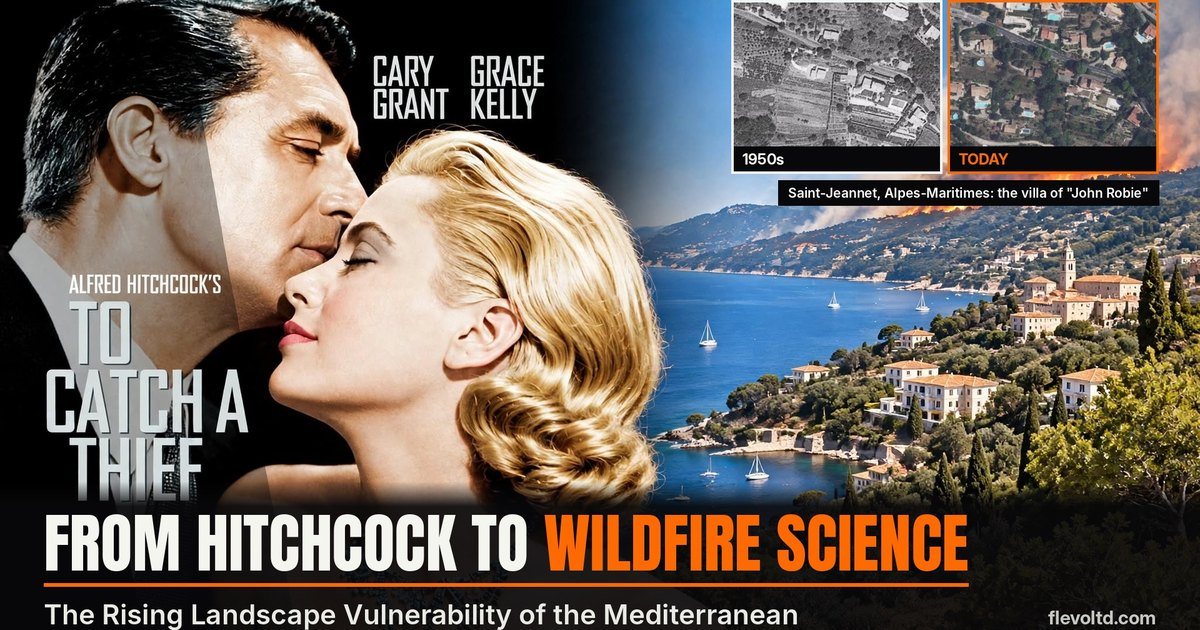
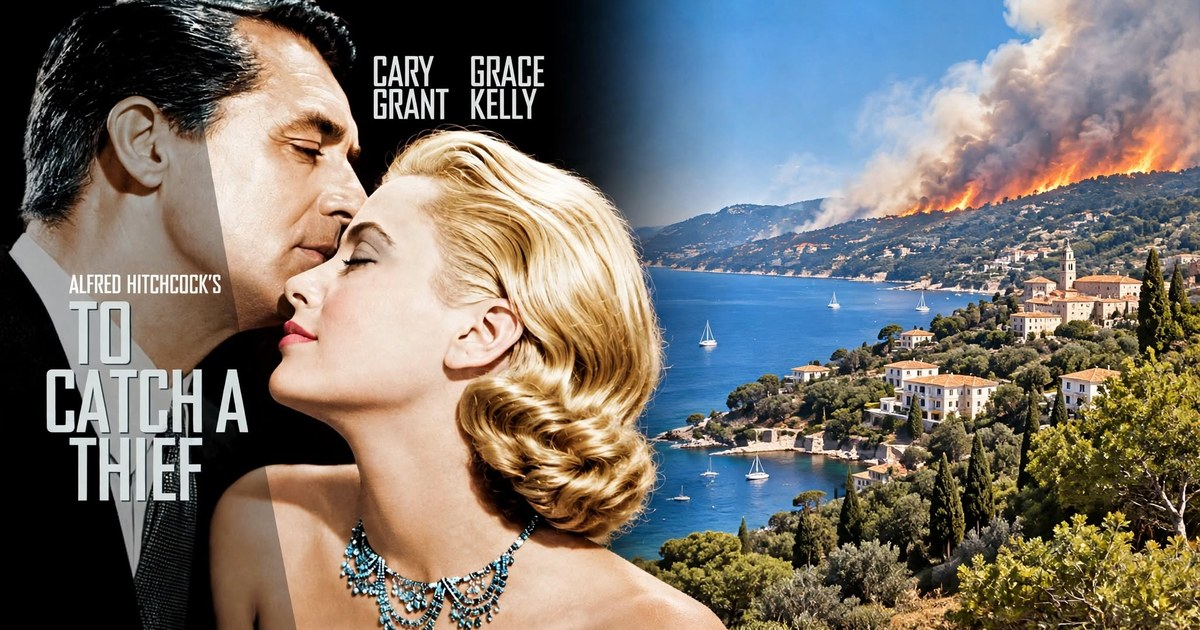
Hitchcock article: use original cover image without overlays
Claude-Session: https://claude.ai/code/session_01AUTAA54vr484pf5KJRPQ4C

Changed region(s): [[0.0308, 0.754, 1.0, 1.0], [0.5858, 0.0, 0.9867, 0.3317], [0.1542, 0.0, 0.185, 0.0603]]

diff --git a/insights/index.html b/insights/index.html
@@ -37,7 +37,7 @@
   <p class="lead">Posts and articles from LinkedIn. Posts that belong to both fields appear in both columns.</p>
   <div class="filt" role="group" aria-label="Filter"><button type="button" data-f="" aria-pressed="true">Both fields</button><button type="button" data-f="s" aria-pressed="false">Safety</button><button type="button" data-f="n" aria-pressed="false">Natural hazards</button></div>
 </div></section>
-<section class="sec" style="padding-top:40px"><div class="wrap"><div class="feed" id="feed"><div class="fcol s"><div class="colh"><h3>Safety</h3></div><a class="post s" href="https://www.linkedin.com/feed/update/urn:li:activity:7425280243684462593/" target="_blank" rel="noopener"><div class="m"><span class="t">Safety</span><span>Feb 2026 · LinkedIn</span><span class="lang">EL</span></div><h4>School buses and fire risk</h4><p>After two city buses burned in Thessaloniki: the specific bus type used almost exclusively for school transport, and why the risk must be addressed now.</p></a><a class="post s" href="https://www.linkedin.com/feed/update/urn:li:activity:7303713686462816256/" target="_blank" rel="noopener"><div class="m"><span class="t">Safety</span><span>Mar 2025 · LinkedIn</span></div><h4>Who should lead an accident investigation?</h4><p>A poll for safety professionals: should investigation leaders be experts in the investigation process, the industry, or the law? 89 % chose the process.</p></a><a class="post b wimg" href="https://www.linkedin.com/feed/update/urn:li:activity:7272912386288721921/" target="_blank" rel="noopener"><div class="m"><span class="t">Both fields</span><span>Dec 2024 · LinkedIn</span></div><h4>Cyprus ESG Forum 2024</h4><p>Expanding knowledge on ESG implementation and the tangible needs of potential customers.</p><img src="/assets/li/li-31.webp" alt="Cyprus ESG Forum 2024" loading="lazy"></a><a class="post b wimg" href="https://www.linkedin.com/feed/update/urn:li:ugcPost:7239157136377696257/" target="_blank" rel="noopener"><div class="m"><span class="t">Both fields</span><span>Sep 2024 · LinkedIn</span></div><h4>How it started: Mati, 23 July 2018</h4><p>Wildfire analysis began in a home yard in Cyprus, applying operational safety incident investigation experience from VTTI and DP World to the Mati disaster.</p><img src="/assets/li/li-32.webp" alt="How it started: Mati, 23 July 2018" loading="lazy"></a><a class="post s" href="https://www.linkedin.com/in/nkamakiotis/recent-activity/all/" target="_blank" rel="noopener"><div class="m"><span class="t">Safety</span><span>2023 · LinkedIn</span><span class="lang">EL</span></div><h4>Safety management means setting priorities</h4><p>On Radio Politis about the school bus fires in Cyprus and the international history of the bus type involved.</p></a><a class="post b" href="https://www.linkedin.com/in/nkamakiotis/recent-activity/all/" target="_blank" rel="noopener"><div class="m"><span class="t">Both fields</span><span>2023 · LinkedIn</span></div><h4>Wildfires are accidents, not acts of nature</h4><p>Improvement only comes from honest, objective analysis of what happened. Wildfire incidents should be analysed like industrial accidents.</p></a><a class="post s" href="https://www.linkedin.com/in/nkamakiotis/recent-activity/all/" target="_blank" rel="noopener"><div class="m"><span class="t">Safety</span><span>2023 · LinkedIn</span><span class="lang">EL</span></div><h4>Safety culture: the eternal excuse</h4><p>Opinion article in Politis: stop blaming poor safety culture and change how employers approach safety management.</p></a><a class="post b wimg" href="https://www.linkedin.com/feed/update/urn:li:share:7038500696849010688/" target="_blank" rel="noopener"><div class="m"><span class="t">Both fields</span><span>Mar 2023 · LinkedIn</span></div><h4>Living Lab on climate adaptation</h4><p>Contributing field experience to the second Living Lab workshop on climate adaptation.</p><img src="/assets/li/li-60.webp" alt="Living Lab on climate adaptation" loading="lazy"></a><a class="post s wimg" href="https://www.linkedin.com/in/nkamakiotis/recent-activity/all/" target="_blank" rel="noopener"><div class="m"><span class="t">Safety</span><span>2022 · LinkedIn</span></div><h4>Industrial firefighting training at H2K</h4><p>Back at H2K in the Netherlands for industrial firefighting and incident command training.</p><img src="/assets/li/li-64.webp" alt="Industrial firefighting training at H2K" loading="lazy"></a><a class="post s wimg" href="https://www.linkedin.com/in/nkamakiotis/recent-activity/all/" target="_blank" rel="noopener"><div class="m"><span class="t">Safety</span><span>2019 · LinkedIn</span></div><h4>Sharing safety culture</h4><p>Presenting on safety culture at DP World Limassol.</p><img src="/assets/li/li-77.webp" alt="Sharing safety culture" loading="lazy"></a><a class="post s" href="https://www.linkedin.com/in/nkamakiotis/recent-activity/all/" target="_blank" rel="noopener"><div class="m"><span class="t">Safety</span><span>2019 · LinkedIn</span></div><h4>Culture changes through conversations</h4><p>A safety meeting that turned into a discussion on organisational and efficiency improvements.</p></a><a class="post b wimg" href="https://www.linkedin.com/in/nkamakiotis/recent-activity/all/" target="_blank" rel="noopener"><div class="m"><span class="t">Both fields</span><span>2018 · LinkedIn</span></div><h4>Nicosia Risk Forum 2018</h4><p>Sharing concerns and ideas on crisis management at the first Risk Forum of CERIDES / European University Cyprus.</p><img src="/assets/li/li-98.webp" alt="Nicosia Risk Forum 2018" loading="lazy"></a><a class="post s wimg" href="https://www.linkedin.com/in/nkamakiotis/recent-activity/all/" target="_blank" rel="noopener"><div class="m"><span class="t">Safety</span><span>2016 · LinkedIn</span></div><h4>An emergency that did not escalate</h4><p>Industrial firefighting tools introduced at state level proved themselves when colleagues controlled an emergency that could have become a catastrophe.</p><img src="/assets/li/li-109.webp" alt="An emergency that did not escalate" loading="lazy"></a></div><div class="fcol n"><div class="colh"><h3>Natural disasters</h3></div><a class="post n wimg" href="/insights/hitchcock-to-wildfire-science/"><div class="m"><span class="t">Natural hazards</span><span>Nov 2026 · Article</span></div><h4>From Hitchcock to Wildfire Science</h4><p>The Riviera of <em>To Catch a Thief</em> (1955) and today: more natural vegetation, abandoned cultivation and scattered houses, three changes that raise wildfire risk together.</p><img src="/insights/hitchcock-to-wildfire-science/cover.webp" alt="From Hitchcock to Wildfire Science" loading="lazy"></a><a class="post n" href="https://www.linkedin.com/feed/update/urn:li:activity:7491078239373737984/" target="_blank" rel="noopener"><div class="m"><span class="t">Natural hazards</span><span>Aug 2026 · LinkedIn</span></div><h4>Can insurance drive wildfire preparedness?</h4><p>After the pledge to fully compensate Porto Germeno homeowners: an open question to the Greek insurance association on rewarding property-level mitigation, not only paying for losses.</p></a><a class="post n" href="https://www.linkedin.com/feed/update/urn:li:activity:7488480293415415808/" target="_blank" rel="noopener"><div class="m"><span class="t">Natural hazards</span><span>Jul 2026 · LinkedIn</span></div><h4>We learned to fight fire, not to stop it growing</h4><p>Sharing Theodore Giannaros on CNN International: more aircraft and crews, but prevention, fuel management and WUI hardening still lag behind.</p></a><a class="post n" href="https://www.linkedin.com/feed/update/urn:li:activity:7467882643322392577/" target="_blank" rel="noopener"><div class="m"><span class="t">Natural hazards</span><span>Jun 2026 · LinkedIn</span></div><h4>A collaboration born at a NERO coffee break</h4><p>Ivana Čavlina Tomašević (DHMZ) on how XFire 2025 led to the joint Pisak reconstruction and WRF-SFIRE on Croatia&#x27;s national HPC infrastructure.</p></a><a class="post n wimg" href="https://www.linkedin.com/feed/update/urn:li:activity:7455584693841911808/" target="_blank" rel="noopener"><div class="m"><span class="t">Natural hazards</span><span>Apr 2026 · LinkedIn</span></div><h4>Remote sensing in forensic wildfire reconstruction</h4><p>Short version of the RSCy 2026 presentation: how satellite information feeds the high-fidelity reconstruction method.</p><img src="/assets/li/li-6.webp" alt="Remote sensing in forensic wildfire reconstruction" loading="lazy"></a><a class="post n wimg" href="https://www.linkedin.com/feed/update/urn:li:activity:7454505931498778626/" target="_blank" rel="noopener"><div class="m"><span class="t">Natural hazards</span><span>Apr 2026 · LinkedIn</span></div><h4>Presenting at RSCy 2026</h4><p>12th International Conference on Remote Sensing and Geoinformation of Environment, Paphos: integrating remote sensing into forensic reconstruction of WUI wildfires.</p><img src="/assets/li/li-7.webp" alt="Presenting at RSCy 2026" loading="lazy"></a><a class="post n wimg" href="https://www.linkedin.com/feed/update/urn:li:activity:7453367062271365120/" target="_blank" rel="noopener"><div class="m"><span class="t">Natural hazards</span><span>Apr 2026 · LinkedIn</span></div><h4>The method travels to Croatia</h4><p>Knowledge transfer within the NERO Network: the reconstruction method, born from industrial incident analysis, applied with DHMZ to the Pisak fire.</p><img src="/assets/li/li-8.webp" alt="The method travels to Croatia" loading="lazy"></a><a class="post n" href="https://www.linkedin.com/feed/update/urn:li:activity:7409218160039579648/" target="_blank" rel="noopener"><div class="m"><span class="t">Natural hazards</span><span>Dec 2025 · LinkedIn</span></div><h4>HackTech Hackathon 2025</h4><p>Key takeaways from chrono-spatial reconstruction of WUI wildfires, shared in a short interview at HackTech 2025.</p></a><a class="post n wimg" href="https://www.linkedin.com/feed/update/urn:li:activity:7380862841366450176/" target="_blank" rel="noopener"><div class="m"><span class="t">Natural hazards</span><span>Oct 2025 · LinkedIn</span></div><h4>Writing wildfire history with purpose</h4><p>Presenting the Varnavas reconstruction at the NERO XFire 2025 workshop, with a SWOT discussion on the researcher–practitioner interface.</p><img src="/assets/li/li-15.webp" alt="Writing wildfire history with purpose" loading="lazy"></a><a class="post n wimg" href="https://www.linkedin.com/feed/update/urn:li:activity:7380875639504920576/" target="_blank" rel="noopener"><div class="m"><span class="t">Natural hazards</span><span>Oct 2025 · LinkedIn</span></div><h4>Out-of-the-box CSR: the Varnavas reconstruction</h4><p>ALTEX S.A. supported the chrono-spatial reconstruction of the Varnavas fire, a project on proactive threat management and communication.</p><img src="/assets/li/li-14.webp" alt="Out-of-the-box CSR: the Varnavas reconstruction" loading="lazy"></a><a class="post n wimg" href="https://www.linkedin.com/feed/update/urn:li:activity:7370335320971649024/" target="_blank" rel="noopener"><div class="m"><span class="t">Natural hazards</span><span>Sep 2025 · LinkedIn</span></div><h4>XFire 2025: the Varnavas reconstruction</h4><p>Evolution of extreme WUI wildfire incidents: the forensic chrono-spatial method, including impact on cultivated land by crop type.</p><img src="/assets/li/li-16.webp" alt="XFire 2025: the Varnavas reconstruction" loading="lazy"></a><a class="post n" href="https://www.linkedin.com/feed/update/urn:li:activity:7355180710128672768/" target="_blank" rel="noopener"><div class="m"><span class="t">Natural hazards</span><span>Jul 2025 · LinkedIn</span></div><h4>Interview on the Limassol wildfire</h4><p>Interview with the Cypriot news group Politis on the large Limassol district fire.</p></a><a class="post n" href="https://www.linkedin.com/feed/update/urn:li:activity:7353931174420877313/" target="_blank" rel="noopener"><div class="m"><span class="t">Natural hazards</span><span>Jul 2025 · LinkedIn</span></div><h4>Limassol fire: no decrease at night</h4><p>Fire intensity in the Limassol district did not drop overnight.</p></a><a class="post n" href="https://www.linkedin.com/feed/update/urn:li:activity:7343487885599289345/" target="_blank" rel="noopener"><div class="m"><span class="t">Natural hazards</span><span>Jun 2025 · LinkedIn</span></div><h4>Chios 2025: three days in 33 seconds</h4><p>Under adverse winds, fronts in abandoned countryside cannot be controlled; when the wind dropped on day three, the fire subsided.</p></a><a class="post n" href="https://www.linkedin.com/feed/update/urn:li:activity:7287891754253533186/" target="_blank" rel="noopener"><div class="m"><span class="t">Natural hazards</span><span>Jan 2025 · LinkedIn</span></div><h4>Natural disasters and media inflation</h4><p>When every event is &quot;unprecedented&quot;, the public stops pressing for the improvements we can control: planning, building codes, fuel management and preparedness.</p></a><a class="post n wimg" href="https://www.linkedin.com/feed/update/urn:li:activity:7284856929586143233/" target="_blank" rel="noopener"><div class="m"><span class="t">Natural hazards</span><span>Jan 2025 · LinkedIn</span></div><h4>Boxing out the Palisades fire</h4><p>Retardant lines on the north-east flank: impressive, but not designed for the wind-driven main front. Planning around the Mediterranean must account for this.</p><img src="/assets/li/li-29.webp" alt="Boxing out the Palisades fire" loading="lazy"></a><a class="post b wimg" href="https://www.linkedin.com/feed/update/urn:li:activity:7272912386288721921/" target="_blank" rel="noopener"><div class="m"><span class="t">Both fields</span><span>Dec 2024 · LinkedIn</span></div><h4>Cyprus ESG Forum 2024</h4><p>Expanding knowledge on ESG implementation and the tangible needs of potential customers.</p><img src="/assets/li/li-31.webp" alt="Cyprus ESG Forum 2024" loading="lazy"></a><a class="post b wimg" href="https://www.linkedin.com/feed/update/urn:li:ugcPost:7239157136377696257/" target="_blank" rel="noopener"><div class="m"><span class="t">Both fields</span><span>Sep 2024 · LinkedIn</span></div><h4>How it started: Mati, 23 July 2018</h4><p>Wildfire analysis began in a home yard in Cyprus, applying operational safety incident investigation experience from VTTI and DP World to the Mati disaster.</p><img src="/assets/li/li-32.webp" alt="How it started: Mati, 23 July 2018" loading="lazy"></a><a class="post n wimg" href="https://www.linkedin.com/in/nkamakiotis/recent-activity/all/" target="_blank" rel="noopener"><div class="m"><span class="t">Natural hazards</span><span>2023 · LinkedIn</span></div><h4>Mati and Lahaina: the same access points</h4><p>Lessons not learned, and not possible to share: the case for uniform analysis of public-safety wildfire incidents across EU Member States.</p><img src="/assets/li/li-49.webp" alt="Mati and Lahaina: the same access points" loading="lazy"></a><a class="post b" href="https://www.linkedin.com/in/nkamakiotis/recent-activity/all/" target="_blank" rel="noopener"><div class="m"><span class="t">Both fields</span><span>2023 · LinkedIn</span></div><h4>Wildfires are accidents, not acts of nature</h4><p>Improvement only comes from honest, objective analysis of what happened. Wildfire incidents should be analysed like industrial accidents.</p></a><a class="post b wimg" href="https://www.linkedin.com/feed/update/urn:li:share:7038500696849010688/" target="_blank" rel="noopener"><div class="m"><span class="t">Both fields</span><span>Mar 2023 · LinkedIn</span></div><h4>Living Lab on climate adaptation</h4><p>Contributing field experience to the second Living Lab workshop on climate adaptation.</p><img src="/assets/li/li-60.webp" alt="Living Lab on climate adaptation" loading="lazy"></a><a class="post n" href="https://www.linkedin.com/feed/update/urn:li:ugcPost:6956598848613924864/" target="_blank" rel="noopener"><div class="m"><span class="t">Natural hazards</span><span>Jul 2022 · LinkedIn</span><span class="lang">EL</span></div><h4>The one video from the Neos Voutzas ravine</h4><p>The only footage of the northern front leaving the ravine above Neos Voutzas, the point where the rate of spread surged.</p></a><a class="post n wimg" href="https://www.linkedin.com/in/nkamakiotis/recent-activity/all/" target="_blank" rel="noopener"><div class="m"><span class="t">Natural hazards</span><span>2022 · LinkedIn</span></div><h4>FIRE-IN: Arakapas analysis for KEMEA</h4><p>After presenting Mati at ENSOSP in 2019, presenting the Arakapas fire, the deadliest in Cyprus, to the FIRE-IN H2020 experts on behalf of KEMEA.</p><img src="/assets/li/li-66.webp" alt="FIRE-IN: Arakapas analysis for KEMEA" loading="lazy"></a><a class="post n" href="https://www.linkedin.com/feed/update/urn:li:share:6931639317136039936/" target="_blank" rel="noopener"><div class="m"><span class="t">Natural hazards</span><span>May 2022 · LinkedIn</span><span class="lang">EL</span></div><h4>A wildfire guide Cyprus can use today</h4><p>Apart from the fire service number, the Greek wildfire self-protection leaflet applies directly to Cyprus.</p></a><a class="post n" href="https://www.linkedin.com/in/nkamakiotis/recent-activity/all/" target="_blank" rel="noopener"><div class="m"><span class="t">Natural hazards</span><span>2019 · LinkedIn</span></div><h4>Mati, one year after</h4><p>A short video comment on the anniversary of the national catastrophe.</p></a><a class="post n wimg" href="https://www.linkedin.com/in/nkamakiotis/recent-activity/all/" target="_blank" rel="noopener"><div class="m"><span class="t">Natural hazards</span><span>2019 · LinkedIn</span></div><h4>Management of change, applied to climate</h4><p>After record rainfall in Cyprus, was the change managed? An industrial management process applied to a natural one.</p><img src="/assets/li/li-86.webp" alt="Management of change, applied to climate" loading="lazy"></a><a class="post n wimg" href="https://www.linkedin.com/in/nkamakiotis/recent-activity/all/" target="_blank" rel="noopener"><div class="m"><span class="t">Natural hazards</span><span>2019 · LinkedIn</span></div><h4>Associate expert at FIRE-IN</h4><p>Invited to the EU-funded FIRE-IN workshop on vegetation fire crisis mitigation, following the web-based study of the Mati disaster.</p><img src="/assets/li/li-93.webp" alt="Associate expert at FIRE-IN" loading="lazy"></a><a class="post n" href="https://www.linkedin.com/in/nkamakiotis/recent-activity/all/" target="_blank" rel="noopener"><div class="m"><span class="t">Natural hazards</span><span>2018 · LinkedIn</span></div><h4>Lethal rendez-vous</h4><p>Annex to the Mati study: following the last steps of a family lost in the fire.</p></a><a class="post n" href="https://www.linkedin.com/in/nkamakiotis/recent-activity/all/" target="_blank" rel="noopener"><div class="m"><span class="t">Natural hazards</span><span>2018 · LinkedIn</span></div><h4>East Attica disaster: safety management principles</h4><p>Updated video of the web-based investigation study of the July 2018 East Attica fires.</p></a><a class="post n" href="https://www.linkedin.com/in/nkamakiotis/recent-activity/all/" target="_blank" rel="noopener"><div class="m"><span class="t">Natural hazards</span><span>2018 · LinkedIn</span></div><h4>The Mati study goes public</h4><p>The video version of a safety management oriented, web-based investigation of the East Attica wildfire disaster.</p></a><a class="post b wimg" href="https://www.linkedin.com/in/nkamakiotis/recent-activity/all/" target="_blank" rel="noopener"><div class="m"><span class="t">Both fields</span><span>2018 · LinkedIn</span></div><h4>Nicosia Risk Forum 2018</h4><p>Sharing concerns and ideas on crisis management at the first Risk Forum of CERIDES / European University Cyprus.</p><img src="/assets/li/li-98.webp" alt="Nicosia Risk Forum 2018" loading="lazy"></a></div></div></div></section>
+<section class="sec" style="padding-top:40px"><div class="wrap"><div class="feed" id="feed"><div class="fcol s"><div class="colh"><h3>Safety</h3></div><a class="post s" href="https://www.linkedin.com/feed/update/urn:li:activity:7425280243684462593/" target="_blank" rel="noopener"><div class="m"><span class="t">Safety</span><span>Feb 2026 · LinkedIn</span><span class="lang">EL</span></div><h4>School buses and fire risk</h4><p>After two city buses burned in Thessaloniki: the specific bus type used almost exclusively for school transport, and why the risk must be addressed now.</p></a><a class="post s" href="https://www.linkedin.com/feed/update/urn:li:activity:7303713686462816256/" target="_blank" rel="noopener"><div class="m"><span class="t">Safety</span><span>Mar 2025 · LinkedIn</span></div><h4>Who should lead an accident investigation?</h4><p>A poll for safety professionals: should investigation leaders be experts in the investigation process, the industry, or the law? 89 % chose the process.</p></a><a class="post b wimg" href="https://www.linkedin.com/feed/update/urn:li:activity:7272912386288721921/" target="_blank" rel="noopener"><div class="m"><span class="t">Both fields</span><span>Dec 2024 · LinkedIn</span></div><h4>Cyprus ESG Forum 2024</h4><p>Expanding knowledge on ESG implementation and the tangible needs of potential customers.</p><img src="/assets/li/li-31.webp" alt="Cyprus ESG Forum 2024" loading="lazy"></a><a class="post b wimg" href="https://www.linkedin.com/feed/update/urn:li:ugcPost:7239157136377696257/" target="_blank" rel="noopener"><div class="m"><span class="t">Both fields</span><span>Sep 2024 · LinkedIn</span></div><h4>How it started: Mati, 23 July 2018</h4><p>Wildfire analysis began in a home yard in Cyprus, applying operational safety incident investigation experience from VTTI and DP World to the Mati disaster.</p><img src="/assets/li/li-32.webp" alt="How it started: Mati, 23 July 2018" loading="lazy"></a><a class="post s" href="https://www.linkedin.com/in/nkamakiotis/recent-activity/all/" target="_blank" rel="noopener"><div class="m"><span class="t">Safety</span><span>2023 · LinkedIn</span><span class="lang">EL</span></div><h4>Safety management means setting priorities</h4><p>On Radio Politis about the school bus fires in Cyprus and the international history of the bus type involved.</p></a><a class="post b" href="https://www.linkedin.com/in/nkamakiotis/recent-activity/all/" target="_blank" rel="noopener"><div class="m"><span class="t">Both fields</span><span>2023 · LinkedIn</span></div><h4>Wildfires are accidents, not acts of nature</h4><p>Improvement only comes from honest, objective analysis of what happened. Wildfire incidents should be analysed like industrial accidents.</p></a><a class="post s" href="https://www.linkedin.com/in/nkamakiotis/recent-activity/all/" target="_blank" rel="noopener"><div class="m"><span class="t">Safety</span><span>2023 · LinkedIn</span><span class="lang">EL</span></div><h4>Safety culture: the eternal excuse</h4><p>Opinion article in Politis: stop blaming poor safety culture and change how employers approach safety management.</p></a><a class="post b wimg" href="https://www.linkedin.com/feed/update/urn:li:share:7038500696849010688/" target="_blank" rel="noopener"><div class="m"><span class="t">Both fields</span><span>Mar 2023 · LinkedIn</span></div><h4>Living Lab on climate adaptation</h4><p>Contributing field experience to the second Living Lab workshop on climate adaptation.</p><img src="/assets/li/li-60.webp" alt="Living Lab on climate adaptation" loading="lazy"></a><a class="post s wimg" href="https://www.linkedin.com/in/nkamakiotis/recent-activity/all/" target="_blank" rel="noopener"><div class="m"><span class="t">Safety</span><span>2022 · LinkedIn</span></div><h4>Industrial firefighting training at H2K</h4><p>Back at H2K in the Netherlands for industrial firefighting and incident command training.</p><img src="/assets/li/li-64.webp" alt="Industrial firefighting training at H2K" loading="lazy"></a><a class="post s wimg" href="https://www.linkedin.com/in/nkamakiotis/recent-activity/all/" target="_blank" rel="noopener"><div class="m"><span class="t">Safety</span><span>2019 · LinkedIn</span></div><h4>Sharing safety culture</h4><p>Presenting on safety culture at DP World Limassol.</p><img src="/assets/li/li-77.webp" alt="Sharing safety culture" loading="lazy"></a><a class="post s" href="https://www.linkedin.com/in/nkamakiotis/recent-activity/all/" target="_blank" rel="noopener"><div class="m"><span class="t">Safety</span><span>2019 · LinkedIn</span></div><h4>Culture changes through conversations</h4><p>A safety meeting that turned into a discussion on organisational and efficiency improvements.</p></a><a class="post b wimg" href="https://www.linkedin.com/in/nkamakiotis/recent-activity/all/" target="_blank" rel="noopener"><div class="m"><span class="t">Both fields</span><span>2018 · LinkedIn</span></div><h4>Nicosia Risk Forum 2018</h4><p>Sharing concerns and ideas on crisis management at the first Risk Forum of CERIDES / European University Cyprus.</p><img src="/assets/li/li-98.webp" alt="Nicosia Risk Forum 2018" loading="lazy"></a><a class="post s wimg" href="https://www.linkedin.com/in/nkamakiotis/recent-activity/all/" target="_blank" rel="noopener"><div class="m"><span class="t">Safety</span><span>2016 · LinkedIn</span></div><h4>An emergency that did not escalate</h4><p>Industrial firefighting tools introduced at state level proved themselves when colleagues controlled an emergency that could have become a catastrophe.</p><img src="/assets/li/li-109.webp" alt="An emergency that did not escalate" loading="lazy"></a></div><div class="fcol n"><div class="colh"><h3>Natural disasters</h3></div><a class="post n wimg" href="/insights/hitchcock-to-wildfire-science/"><div class="m"><span class="t">Natural hazards</span><span>Nov 2026 · Article</span></div><h4>From Hitchcock to Wildfire Science</h4><p>The Riviera of <em>To Catch a Thief</em> (1955) and today: more natural vegetation, abandoned cultivation and scattered houses, three changes that raise wildfire risk together.</p><img src="/insights/hitchcock-to-wildfire-science/cover.webp?v=2" alt="From Hitchcock to Wildfire Science" loading="lazy"></a><a class="post n" href="https://www.linkedin.com/feed/update/urn:li:activity:7491078239373737984/" target="_blank" rel="noopener"><div class="m"><span class="t">Natural hazards</span><span>Aug 2026 · LinkedIn</span></div><h4>Can insurance drive wildfire preparedness?</h4><p>After the pledge to fully compensate Porto Germeno homeowners: an open question to the Greek insurance association on rewarding property-level mitigation, not only paying for losses.</p></a><a class="post n" href="https://www.linkedin.com/feed/update/urn:li:activity:7488480293415415808/" target="_blank" rel="noopener"><div class="m"><span class="t">Natural hazards</span><span>Jul 2026 · LinkedIn</span></div><h4>We learned to fight fire, not to stop it growing</h4><p>Sharing Theodore Giannaros on CNN International: more aircraft and crews, but prevention, fuel management and WUI hardening still lag behind.</p></a><a class="post n" href="https://www.linkedin.com/feed/update/urn:li:activity:7467882643322392577/" target="_blank" rel="noopener"><div class="m"><span class="t">Natural hazards</span><span>Jun 2026 · LinkedIn</span></div><h4>A collaboration born at a NERO coffee break</h4><p>Ivana Čavlina Tomašević (DHMZ) on how XFire 2025 led to the joint Pisak reconstruction and WRF-SFIRE on Croatia&#x27;s national HPC infrastructure.</p></a><a class="post n wimg" href="https://www.linkedin.com/feed/update/urn:li:activity:7455584693841911808/" target="_blank" rel="noopener"><div class="m"><span class="t">Natural hazards</span><span>Apr 2026 · LinkedIn</span></div><h4>Remote sensing in forensic wildfire reconstruction</h4><p>Short version of the RSCy 2026 presentation: how satellite information feeds the high-fidelity reconstruction method.</p><img src="/assets/li/li-6.webp" alt="Remote sensing in forensic wildfire reconstruction" loading="lazy"></a><a class="post n wimg" href="https://www.linkedin.com/feed/update/urn:li:activity:7454505931498778626/" target="_blank" rel="noopener"><div class="m"><span class="t">Natural hazards</span><span>Apr 2026 · LinkedIn</span></div><h4>Presenting at RSCy 2026</h4><p>12th International Conference on Remote Sensing and Geoinformation of Environment, Paphos: integrating remote sensing into forensic reconstruction of WUI wildfires.</p><img src="/assets/li/li-7.webp" alt="Presenting at RSCy 2026" loading="lazy"></a><a class="post n wimg" href="https://www.linkedin.com/feed/update/urn:li:activity:7453367062271365120/" target="_blank" rel="noopener"><div class="m"><span class="t">Natural hazards</span><span>Apr 2026 · LinkedIn</span></div><h4>The method travels to Croatia</h4><p>Knowledge transfer within the NERO Network: the reconstruction method, born from industrial incident analysis, applied with DHMZ to the Pisak fire.</p><img src="/assets/li/li-8.webp" alt="The method travels to Croatia" loading="lazy"></a><a class="post n" href="https://www.linkedin.com/feed/update/urn:li:activity:7409218160039579648/" target="_blank" rel="noopener"><div class="m"><span class="t">Natural hazards</span><span>Dec 2025 · LinkedIn</span></div><h4>HackTech Hackathon 2025</h4><p>Key takeaways from chrono-spatial reconstruction of WUI wildfires, shared in a short interview at HackTech 2025.</p></a><a class="post n wimg" href="https://www.linkedin.com/feed/update/urn:li:activity:7380862841366450176/" target="_blank" rel="noopener"><div class="m"><span class="t">Natural hazards</span><span>Oct 2025 · LinkedIn</span></div><h4>Writing wildfire history with purpose</h4><p>Presenting the Varnavas reconstruction at the NERO XFire 2025 workshop, with a SWOT discussion on the researcher–practitioner interface.</p><img src="/assets/li/li-15.webp" alt="Writing wildfire history with purpose" loading="lazy"></a><a class="post n wimg" href="https://www.linkedin.com/feed/update/urn:li:activity:7380875639504920576/" target="_blank" rel="noopener"><div class="m"><span class="t">Natural hazards</span><span>Oct 2025 · LinkedIn</span></div><h4>Out-of-the-box CSR: the Varnavas reconstruction</h4><p>ALTEX S.A. supported the chrono-spatial reconstruction of the Varnavas fire, a project on proactive threat management and communication.</p><img src="/assets/li/li-14.webp" alt="Out-of-the-box CSR: the Varnavas reconstruction" loading="lazy"></a><a class="post n wimg" href="https://www.linkedin.com/feed/update/urn:li:activity:7370335320971649024/" target="_blank" rel="noopener"><div class="m"><span class="t">Natural hazards</span><span>Sep 2025 · LinkedIn</span></div><h4>XFire 2025: the Varnavas reconstruction</h4><p>Evolution of extreme WUI wildfire incidents: the forensic chrono-spatial method, including impact on cultivated land by crop type.</p><img src="/assets/li/li-16.webp" alt="XFire 2025: the Varnavas reconstruction" loading="lazy"></a><a class="post n" href="https://www.linkedin.com/feed/update/urn:li:activity:7355180710128672768/" target="_blank" rel="noopener"><div class="m"><span class="t">Natural hazards</span><span>Jul 2025 · LinkedIn</span></div><h4>Interview on the Limassol wildfire</h4><p>Interview with the Cypriot news group Politis on the large Limassol district fire.</p></a><a class="post n" href="https://www.linkedin.com/feed/update/urn:li:activity:7353931174420877313/" target="_blank" rel="noopener"><div class="m"><span class="t">Natural hazards</span><span>Jul 2025 · LinkedIn</span></div><h4>Limassol fire: no decrease at night</h4><p>Fire intensity in the Limassol district did not drop overnight.</p></a><a class="post n" href="https://www.linkedin.com/feed/update/urn:li:activity:7343487885599289345/" target="_blank" rel="noopener"><div class="m"><span class="t">Natural hazards</span><span>Jun 2025 · LinkedIn</span></div><h4>Chios 2025: three days in 33 seconds</h4><p>Under adverse winds, fronts in abandoned countryside cannot be controlled; when the wind dropped on day three, the fire subsided.</p></a><a class="post n" href="https://www.linkedin.com/feed/update/urn:li:activity:7287891754253533186/" target="_blank" rel="noopener"><div class="m"><span class="t">Natural hazards</span><span>Jan 2025 · LinkedIn</span></div><h4>Natural disasters and media inflation</h4><p>When every event is &quot;unprecedented&quot;, the public stops pressing for the improvements we can control: planning, building codes, fuel management and preparedness.</p></a><a class="post n wimg" href="https://www.linkedin.com/feed/update/urn:li:activity:7284856929586143233/" target="_blank" rel="noopener"><div class="m"><span class="t">Natural hazards</span><span>Jan 2025 · LinkedIn</span></div><h4>Boxing out the Palisades fire</h4><p>Retardant lines on the north-east flank: impressive, but not designed for the wind-driven main front. Planning around the Mediterranean must account for this.</p><img src="/assets/li/li-29.webp" alt="Boxing out the Palisades fire" loading="lazy"></a><a class="post b wimg" href="https://www.linkedin.com/feed/update/urn:li:activity:7272912386288721921/" target="_blank" rel="noopener"><div class="m"><span class="t">Both fields</span><span>Dec 2024 · LinkedIn</span></div><h4>Cyprus ESG Forum 2024</h4><p>Expanding knowledge on ESG implementation and the tangible needs of potential customers.</p><img src="/assets/li/li-31.webp" alt="Cyprus ESG Forum 2024" loading="lazy"></a><a class="post b wimg" href="https://www.linkedin.com/feed/update/urn:li:ugcPost:7239157136377696257/" target="_blank" rel="noopener"><div class="m"><span class="t">Both fields</span><span>Sep 2024 · LinkedIn</span></div><h4>How it started: Mati, 23 July 2018</h4><p>Wildfire analysis began in a home yard in Cyprus, applying operational safety incident investigation experience from VTTI and DP World to the Mati disaster.</p><img src="/assets/li/li-32.webp" alt="How it started: Mati, 23 July 2018" loading="lazy"></a><a class="post n wimg" href="https://www.linkedin.com/in/nkamakiotis/recent-activity/all/" target="_blank" rel="noopener"><div class="m"><span class="t">Natural hazards</span><span>2023 · LinkedIn</span></div><h4>Mati and Lahaina: the same access points</h4><p>Lessons not learned, and not possible to share: the case for uniform analysis of public-safety wildfire incidents across EU Member States.</p><img src="/assets/li/li-49.webp" alt="Mati and Lahaina: the same access points" loading="lazy"></a><a class="post b" href="https://www.linkedin.com/in/nkamakiotis/recent-activity/all/" target="_blank" rel="noopener"><div class="m"><span class="t">Both fields</span><span>2023 · LinkedIn</span></div><h4>Wildfires are accidents, not acts of nature</h4><p>Improvement only comes from honest, objective analysis of what happened. Wildfire incidents should be analysed like industrial accidents.</p></a><a class="post b wimg" href="https://www.linkedin.com/feed/update/urn:li:share:7038500696849010688/" target="_blank" rel="noopener"><div class="m"><span class="t">Both fields</span><span>Mar 2023 · LinkedIn</span></div><h4>Living Lab on climate adaptation</h4><p>Contributing field experience to the second Living Lab workshop on climate adaptation.</p><img src="/assets/li/li-60.webp" alt="Living Lab on climate adaptation" loading="lazy"></a><a class="post n" href="https://www.linkedin.com/feed/update/urn:li:ugcPost:6956598848613924864/" target="_blank" rel="noopener"><div class="m"><span class="t">Natural hazards</span><span>Jul 2022 · LinkedIn</span><span class="lang">EL</span></div><h4>The one video from the Neos Voutzas ravine</h4><p>The only footage of the northern front leaving the ravine above Neos Voutzas, the point where the rate of spread surged.</p></a><a class="post n wimg" href="https://www.linkedin.com/in/nkamakiotis/recent-activity/all/" target="_blank" rel="noopener"><div class="m"><span class="t">Natural hazards</span><span>2022 · LinkedIn</span></div><h4>FIRE-IN: Arakapas analysis for KEMEA</h4><p>After presenting Mati at ENSOSP in 2019, presenting the Arakapas fire, the deadliest in Cyprus, to the FIRE-IN H2020 experts on behalf of KEMEA.</p><img src="/assets/li/li-66.webp" alt="FIRE-IN: Arakapas analysis for KEMEA" loading="lazy"></a><a class="post n" href="https://www.linkedin.com/feed/update/urn:li:share:6931639317136039936/" target="_blank" rel="noopener"><div class="m"><span class="t">Natural hazards</span><span>May 2022 · LinkedIn</span><span class="lang">EL</span></div><h4>A wildfire guide Cyprus can use today</h4><p>Apart from the fire service number, the Greek wildfire self-protection leaflet applies directly to Cyprus.</p></a><a class="post n" href="https://www.linkedin.com/in/nkamakiotis/recent-activity/all/" target="_blank" rel="noopener"><div class="m"><span class="t">Natural hazards</span><span>2019 · LinkedIn</span></div><h4>Mati, one year after</h4><p>A short video comment on the anniversary of the national catastrophe.</p></a><a class="post n wimg" href="https://www.linkedin.com/in/nkamakiotis/recent-activity/all/" target="_blank" rel="noopener"><div class="m"><span class="t">Natural hazards</span><span>2019 · LinkedIn</span></div><h4>Management of change, applied to climate</h4><p>After record rainfall in Cyprus, was the change managed? An industrial management process applied to a natural one.</p><img src="/assets/li/li-86.webp" alt="Management of change, applied to climate" loading="lazy"></a><a class="post n wimg" href="https://www.linkedin.com/in/nkamakiotis/recent-activity/all/" target="_blank" rel="noopener"><div class="m"><span class="t">Natural hazards</span><span>2019 · LinkedIn</span></div><h4>Associate expert at FIRE-IN</h4><p>Invited to the EU-funded FIRE-IN workshop on vegetation fire crisis mitigation, following the web-based study of the Mati disaster.</p><img src="/assets/li/li-93.webp" alt="Associate expert at FIRE-IN" loading="lazy"></a><a class="post n" href="https://www.linkedin.com/in/nkamakiotis/recent-activity/all/" target="_blank" rel="noopener"><div class="m"><span class="t">Natural hazards</span><span>2018 · LinkedIn</span></div><h4>Lethal rendez-vous</h4><p>Annex to the Mati study: following the last steps of a family lost in the fire.</p></a><a class="post n" href="https://www.linkedin.com/in/nkamakiotis/recent-activity/all/" target="_blank" rel="noopener"><div class="m"><span class="t">Natural hazards</span><span>2018 · LinkedIn</span></div><h4>East Attica disaster: safety management principles</h4><p>Updated video of the web-based investigation study of the July 2018 East Attica fires.</p></a><a class="post n" href="https://www.linkedin.com/in/nkamakiotis/recent-activity/all/" target="_blank" rel="noopener"><div class="m"><span class="t">Natural hazards</span><span>2018 · LinkedIn</span></div><h4>The Mati study goes public</h4><p>The video version of a safety management oriented, web-based investigation of the East Attica wildfire disaster.</p></a><a class="post b wimg" href="https://www.linkedin.com/in/nkamakiotis/recent-activity/all/" target="_blank" rel="noopener"><div class="m"><span class="t">Both fields</span><span>2018 · LinkedIn</span></div><h4>Nicosia Risk Forum 2018</h4><p>Sharing concerns and ideas on crisis management at the first Risk Forum of CERIDES / European University Cyprus.</p><img src="/assets/li/li-98.webp" alt="Nicosia Risk Forum 2018" loading="lazy"></a></div></div></div></section>
 </main>
 <footer><div class="wrap"><div class="legal-row"><a class="lpill" href="/terms/">Terms &amp; Conditions</a><a class="lpill" href="/privacy/">Privacy &amp; Cookies Notice</a></div><span>© 2026 FlEvo Ltd. All rights reserved. · Reg. No. HE462561 · Larnaca, Cyprus</span><span><a href="/products/">Risk control platforms</a> · <a href="/training/">Training</a> · <a href="/insights/">Insights</a> · <a href="/about/">About</a> · <a href="/contact/">Contact</a> · <a href="https://www.linkedin.com/in/nkamakiotis/" rel="noopener">LinkedIn</a></span><p class="rights">The content of this website, including analyses, reconstructions, maps, animations, images and platform designs, is the property of FlEvo Ltd and may not be reproduced without written permission. It is general information, not professional advice. See the <a href="/terms/">Terms &amp; Conditions</a>.</p></div></footer>
 <script src="/assets/site.js?v=16" defer></script>

diff --git a/insights/hitchcock-to-wildfire-science/index.html b/insights/hitchcock-to-wildfire-science/index.html
@@ -9,7 +9,7 @@
 <meta property="og:description" content="Seventy years after To Catch a Thief, the hills around John Robie's villa tell a wildfire story: more vegetation, abandoned terraces and scattered houses.">
 <meta property="og:type" content="article">
 <meta property="og:url" content="https://flevoltd.com/insights/hitchcock-to-wildfire-science/">
-<meta property="og:image" content="https://flevoltd.com/assets/og-hitchcock.jpg">
+<meta property="og:image" content="https://flevoltd.com/assets/og-hitchcock.jpg?v=2">
 <link rel="canonical" href="https://flevoltd.com/insights/hitchcock-to-wildfire-science/">
 <link rel="icon" type="image/png" href="/assets/favicon.png">
 <link rel="apple-touch-icon" href="/assets/apple-touch-icon.png">
@@ -19,10 +19,10 @@
 <meta property="og:site_name" content="FlEvo Ltd" data-seo>
 <meta property="og:locale" content="en_GB" data-seo>
 <meta name="twitter:card" content="summary_large_image" data-seo>
-<script type="application/ld+json" data-seo>{"@context": "https://schema.org", "@graph": [{"@type": "Article", "headline": "From Hitchcock to Wildfire Science: The Rising Landscape Vulnerability of the Mediterranean", "description": "What the landscapes of Hitchcock's To Catch a Thief (1955) show about how Mediterranean wildfire risk has grown.", "image": "https://flevoltd.com/assets/og-hitchcock.jpg", "url": "https://flevoltd.com/insights/hitchcock-to-wildfire-science/", "datePublished": "2026-11-27", "author": {"@id": "https://flevoltd.com/about/#person", "@type": "Person", "name": "Nikolaos Kamakiotis"}, "publisher": {"@id": "https://flevoltd.com/#org", "@type": "Organization", "name": "FlEvo Ltd"}}]}</script>
+<script type="application/ld+json" data-seo>{"@context": "https://schema.org", "@graph": [{"@type": "Article", "headline": "From Hitchcock to Wildfire Science: The Rising Landscape Vulnerability of the Mediterranean", "description": "What the landscapes of Hitchcock's To Catch a Thief (1955) show about how Mediterranean wildfire risk has grown.", "image": "https://flevoltd.com/assets/og-hitchcock.jpg?v=2", "url": "https://flevoltd.com/insights/hitchcock-to-wildfire-science/", "datePublished": "2026-11-27", "author": {"@id": "https://flevoltd.com/about/#person", "@type": "Person", "name": "Nikolaos Kamakiotis"}, "publisher": {"@id": "https://flevoltd.com/#org", "@type": "Organization", "name": "FlEvo Ltd"}}]}</script>
 <meta property="og:image:width" content="1200" data-seo>
 <meta property="og:image:height" content="630" data-seo>
-<meta name="twitter:image" content="https://flevoltd.com/assets/og-hitchcock.jpg" data-seo>
+<meta name="twitter:image" content="https://flevoltd.com/assets/og-hitchcock.jpg?v=2" data-seo>
 </head>
 <body data-seg="n" data-fx="terrain">
 <header class="bar"><div class="wrap">
@@ -37,7 +37,7 @@
   <p class="lead" style="font-family:var(--fm);font-size:.82rem;color:var(--nmute)">NIKOS KAMAKIOTIS · 27 NOVEMBER 2026</p>
 </div></section>
 <style>.article .body figure img,.article .cover img{width:100%;height:auto}</style>
-<section class="sec article"><div class="wrap narrow"><div class="cover"><img src="cover.webp" alt="To Catch a Thief poster beside a wildfire on the Riviera hills, with 1950s and present-day aerial views of Saint-Jeannet" width="1920" height="1080"></div><div class="body"><p class="sub">Seventy years after <em>To Catch a Thief</em>, the hills around John Robie's villa tell a wildfire story: more natural vegetation, abandoned terraces and houses scattered across the slopes.</p>
+<section class="sec article"><div class="wrap narrow"><div class="cover"><img src="cover.webp?v=2" alt="To Catch a Thief poster beside a wildfire on the Riviera hills" width="2048" height="1152"></div><div class="body"><p class="sub">Seventy years after <em>To Catch a Thief</em>, the hills around John Robie's villa tell a wildfire story: more natural vegetation, abandoned terraces and houses scattered across the slopes.</p>
 
 <h2>A thriller, a villa and a hillside</h2>
 <p>In 1955 Alfred Hitchcock released <em>To Catch a Thief</em>, with Cary Grant as John Robie, a retired cat burglar, and Grace Kelly, who a year later would become Princess of Monaco on the same stretch of coast. The film is remembered for its glamour, its jewels and its drives along the Riviera.</p>

diff --git a/index.html b/index.html
@@ -59,7 +59,7 @@
   </style>
   <div class="wrap">
     <a class="pin" href="/insights/hitchcock-to-wildfire-science/">
-      <img src="/insights/hitchcock-to-wildfire-science/cover.webp" alt="To Catch a Thief poster beside a wildfire on the Riviera hills" loading="lazy">
+      <img src="/insights/hitchcock-to-wildfire-science/cover.webp?v=2" alt="To Catch a Thief poster beside a wildfire on the Riviera hills" loading="lazy">
       <div class="tx">
         <span class="tag">Pinned · Natural disasters · Nov 2026</span>
         <h3>From Hitchcock to Wildfire Science: The Rising Landscape Vulnerability of the Mediterranean</h3>
